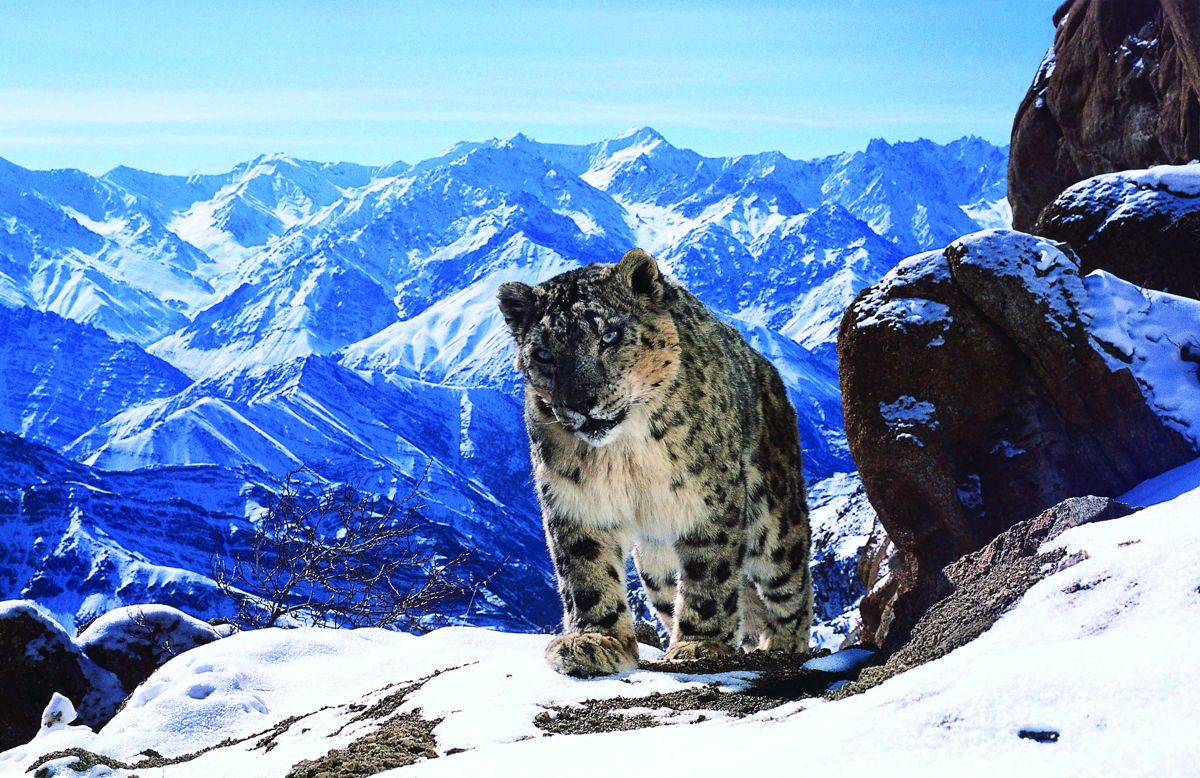
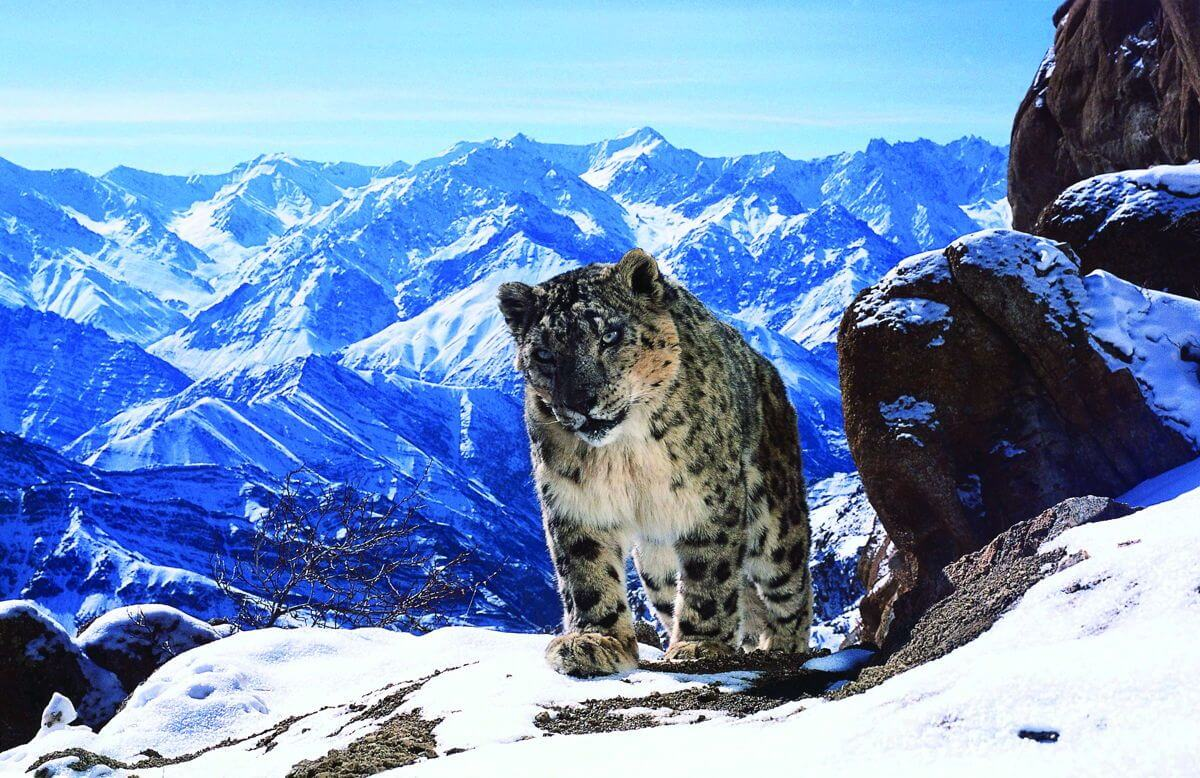
Добавлены в области для фотографий картинки новыми способами задания фона. Иконки социальных сетей добавлены с помощью fontawesome

Changed region(s): [[0.2467, 0.7712, 0.2775, 0.8021]]

diff --git a/index.html b/index.html
@@ -21,7 +21,7 @@
                     <li class="main-header-list-item">Associate the page with the payment system</li>
                 </ul>
             </div> 
-            <img class="main-header-img" src="img/title.jpg" alt="фото товара" width="200" height="150">
+            <div class="main-header-img background-images"></div>
             </header>
         <main class="content">
             <section class="about-product">
@@ -62,29 +62,29 @@
             <section class="screenshots">
                 <h2>Screenshots</h2>
                 <div class="screenshots-div">
-                    <figure class="screenshots-figure"> 
-                       <img src="img/Screenshot1.jpg" alt="Скриншот" width="200" height="150">
+                    <figure class="screenshots-figure">
+                      <span id=screenshot1 class="screenshots-figure-img background-images"></span> 
                         <figcaption class="screenshots-figcaption">
                             <h3 class="screenshots-h3">The description for the image</h3>
                             <p class="screenshots-p">Pariatur iure ab sunt nesciunt, quibusdam odio iste cumque itaque, ipsa vel exercitationem ullam quos aut nostrum cupiditate fuga quaerat quam animi dolores. Sequi itaque, unde perferendis nemo debitis dolor.</p>
                         </figcaption>
                     </figure>
                     <figure class="screenshots-figure"> 
-                       <img src="img/Screenshot2.jpg" alt="Скриншот" width="200" height="150">
+                        <span id=screenshot2 class="screenshots-figure-img background-images"></span>
                         <figcaption class="screenshots-figcaption">
                             <h3 class="screenshots-h3">The description for the image</h3>
                             <p class="screenshots-p">Pariatur iure ab sunt nesciunt, quibusdam odio iste cumque itaque, ipsa vel exercitationem ullam quos aut nostrum cupiditate fuga quaerat quam animi dolores. Sequi itaque, unde perferendis nemo debitis dolor.</p>
                         </figcaption>
                     </figure>
                     <figure class="screenshots-figure screenshots-figure-pb0"> 
-                       <img src="img/Screenshot3.jpg" alt="Скриншот" width="200" height="150">
+                        <span id=screenshot3 class="screenshots-figure-img background-images"></span>
                         <figcaption class="screenshots-figcaption">
                             <h3 class="screenshots-h3">The description for the image</h3>
                             <p class="screenshots-p">Lorem ipsum dolor sit amet, consectetur adipisicing elit. Nobis facilis fuga, illo at. Natus eos, eligendi illum rerum omnis porro ex, magni, explicabo veniam incidunt in quam sapiente ut ipsum.</p>
                         </figcaption>
                     </figure>
                     <figure class="screenshots-figure screenshots-figure-pb0"> 
-                       <img src="img/Screenshot4.jpg" alt="Скриншот" width="200" height="150">
+                        <span id=screenshot4 class="screenshots-figure-img background-images"></span>
                         <figcaption class="screenshots-figcaption">
                             <h3 class="screenshots-h3">The description for the image</h3>
                             <p class="screenshots-p">Lorem ipsum dolor sit amet, consectetur adipisicing elit. Nobis facilis fuga, illo at. Natus eos, eligendi illum rerum omnis porro ex, magni, explicabo veniam incidunt in quam sapiente ut ipsum.</p>

diff --git a/css/style.css b/css/style.css
@@ -6,6 +6,13 @@ body {
     font-family: Arial;
 }
 
+/* Класс для добавления фоновых картинок в блоки */
+.background-images
+{
+    background-position: center;
+    background-size: cover;
+    background-repeat: no-repeat;    
+}
 
 /*1-ый блок.*/
 
@@ -94,11 +101,10 @@ body {
 /*1-ый блок. Дочерний блок. Картика/видео */
 
 .main-header-img {
-    display: block;
     width: 469px;
-    min-height: 214px;
+    height: 214px;
     float: right;
-    background-color: #fff;
+    background-image:url(../img/title.jpg);
 }
 
 
@@ -314,7 +320,9 @@ figure:nth-child(2) {
 
 /* 4- ый блок. Изображение */
 
-.screenshots-figure>img {
+
+.screenshots-figure-img {
+    display: block;
     width: 200px;
     height: 150px;
     background-color: #445161;
@@ -322,7 +330,22 @@ figure:nth-child(2) {
     margin: 0 15px 0 0;
 }
 
-
+#screenshot1
+{
+     background-image: url(../img/Screenshot1.jpg);   
+}
+#screenshot2
+{
+     background-image: url(../img/Screenshot2.jpg);   
+}
+#screenshot3
+{
+     background-image: url(../img/Screenshot3.jpg);   
+}
+#screenshot4
+{
+     background-image: url(../img/Screenshot4.jpg);   
+}
 /* 4- ый блок. Описание доп. конт. изображения */
 
 .screenshots-figcaption {
@@ -418,7 +441,7 @@ figure:nth-child(2) {
     background-position: center;
     border-radius: 50%;
     float: left;
-    background-size: 75px 75px;
+    background-size: cover;
     background-repeat: no-repeat;
     background-position: center;
 }
